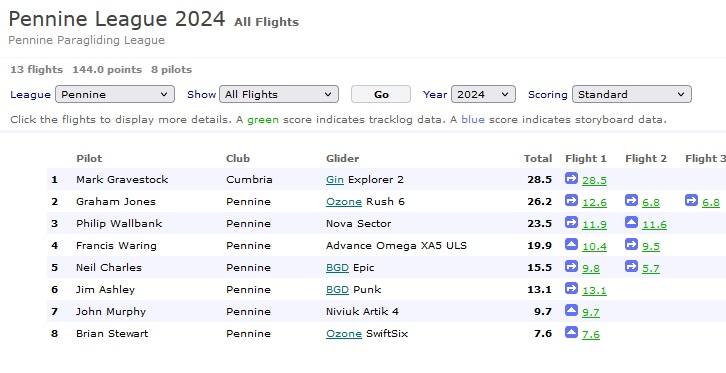
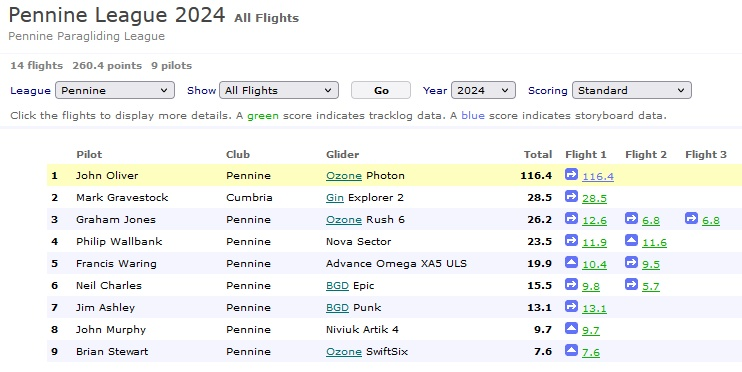
april comp update

Changed region(s): [[0.0606, 0.3844, 1.0, 0.9758], [0.0, 0.1478, 0.9697, 0.3548], [0.0, 0.0, 0.4242, 0.1183]]

diff --git a/docs/posts/2024-04/index.html b/docs/posts/2024-04/index.html
@@ -253,24 +253,22 @@ I was advised that this was normal for a new CP. I did even consider placing all
 <video height = "500" src="nigel.mp4" type="video/mp4" controls></video>
 <hr>
 <h1 id="competitions">Competitions</h1>
-<p><em>Elliot Brown, Competitions Secretary</em></p>
-<p>The 30th March seems to be the start of the 100km flights being added to <a href="https://www.xcontest.org/world/en/flights/daily-score-pg/#filter%5Bdate%5D=2024-03-30@filter%5Bcountry%5D=GB">XContest</a> and XC League in numbers with entries from Milk Hill, Eyam Edge and Windbank. There was also a great earlier flight from Tinto in Scotland the week before, scoring 107km.</p>
-<p><img src="tinto.jpg" alt=""></p>
+<p><em>Elliott Brown, Competitions Secretary</em></p>
+<p>The 30th March seems to be the start of the 100km flights being added to <a href="https://www.xcontest.org/world/en/flights/daily-score-pg/#filter%5Bdate%5D=2024-03-30@filter%5Bcountry%5D=GB">XContest</a> and XC League in numbers, with entries from Milk Hill, Eyam Edge, Windbank and our own Parlick Hill. There was also a great earlier flight from Tinto in Scotland the week before, scoring 107km.</p>
+<p><a href="https://xcleague.com/xc/flights/2024699.html"><img src="tinto.jpg" alt=""></a></p>
+<p>A fantastic flight too by our PSC pilot John Oliver, who rocked up to Parlick on 30th March and clocked an amazing effort to just past Bishop Auckland at 116km!</p>
+<p><a href="https://xcleague.com/xc/flights/2024826.html?vx=15"><img src="john.jpg" alt=""></a></p>
 <h3 id="northern-challenge-series">Northern Challenge Series</h3>
 <p>The Northern Challenge Series has started to get flights added since it opened 1st of February, with Nappa being completed on the 30th of March.</p>
-<p><img src="nappa.jpg" alt=""></p>
+<p><a href="https://www.xcmap.net/xc.php?r=1343&amp;t=1188&amp;c=Northern+Challenge+Trophy"><img src="nappa.jpg" alt=""></a></p>
 <p>This year Pennine Soaring Club is host to three of the challenges, set on Pendle, Parlick and Longridge. Why not get them downloaded and ready for a flight? there is no registration needed to add your flights, just upload a track to the relevant task page and your name will appear on the scoreboard.</p>
-<p><img src="ncs_table.jpg" alt=""></p>
+<p><a href="https://www.xcmap.net/index.php"><img src="ncs_table.jpg" alt=""></a></p>
 <h3 id="xcontest">XContest</h3>
-<p>Scott’s flight on Clough Head has secured his position at the top of the XContest Pennine league, with a couple of entries from Windbank helping to add to those numbers. Looking through the other pilots&rsquo; entries down the board, it’s a similar picture for days/locations.</p>
-<p><img src="xcontest_table2.jpg" alt=""></p>
+<p>John’s flight off Parlick on Saturday has secured him a nice lead at the top of the league, with his epic outing to the North. The remaining pilots in the top 5 have similarly built up some good flights from the same couple of flyable days in March.</p>
+<p><a href="https://www.xcontest.org/united-kingdom/ranking-club:2688"><img src="xcontest_table2.jpg" alt=""></a></p>
 <h3 id="xc-league">XC League</h3>
 <p>Parlick seems to be getting the most love on XC League, with the odd flight from Blackstone Edge thrown into the mix.</p>
-<p><img src="xcleague_table.jpg" alt=""></p>
-<hr>
-<p><a href="https://xcleague.com/xc/leagues/view-15.html"><img src="xcleague.jpg" alt=""></a></p>
-<p><a href="https://www.xcontest.org/united-kingdom/ranking-club:2688"><img src="xcontest.jpg" alt=""></a></p>
-<p><a href="https://www.xcflight.com/northern-challenge-series-2024/"><img src="https://www.xcflight.com/s/cc_images/cache_83561507.jpg?t=1700681134%5D" alt=""></a></p>
+<p><a href="https://xcleague.com/xc/leagues/view-15.html"><img src="xcleague_table.jpg" alt=""></a></p>
 <hr>
 <h1 id="pennine-fest">Pennine Fest</h1>
 <h3 id="24th---27th-may-the-whole-bank-holiday-weekend">24th - 27th May (the whole bank holiday weekend)</h3>
@@ -281,7 +279,7 @@ I was advised that this was normal for a new CP. I did even consider placing all
 <li>Camping all weekend on the show field. Electric hook ups. Toilets but not showers.</li>
 </ul>
 <p>Dinner at the Sun Inn on Saturday evening, which will be the usual chilli meal with a veg or vegan option. Please contact either Tim or Jim via social media or email <a href="mailto:accounts@penninesoaringclub.org.uk">accounts@penninesoaringclub.org.uk</a>. We need to know numbers so do get your order in early as it always sells out. The room we use can accommodate 32 total.</p>
-<p>At the time of writing I don’t have prices for camping but the meal on Saturday night will be £10, including a pound to the air ambulance. Cash only please!</p>
+<p>Camping is £8 per pitch (tent, caravan or motor home) + £6 for an electric hookup. The meal on Saturday night will be £10, including a pound to the air ambulance. Cash only please!</p>
 <p>I’ll post more information on the Pennine Chat Telegram group when available.</p>
 <p>Jim</p>
 <hr>
@@ -3120,6 +3118,7 @@ I was advised that this was normal for a new CP. I did even consider placing all
 <p>Congratulations to Scott O&rsquo;Neil for chalking up 57km - <a href="https://xcleague.com/xc/flights/2024667.html?vx=0">the longest flight of the day</a> - from Clough Head on Sunday 24th March - the same day that&rsquo;s given us all of our spectacular photos this month.</p>
 <p>Scott&rsquo;s much too modest to have nominated himself for the shout out but he did make a cracking video of the day.</p>
 <video width = "100%" src="scott.mp4" type="video/mp4" controls></video>
+<p>And congratulations again to John Oliver - already mentioned in Competitions - for the first 100km XC from a Pennine hill this season. Also the first 50km XC. And the first 25km XC from a Pennine site by a Pennine pilot. The rest of us have got some serious catching up to do already.</p>
 <hr>
 <h1 id="why-not-visit">Why Not Visit&hellip;</h1>
 <h3 id="clough-head">Clough Head</h3>

diff --git a/content/posts/2024-04/index.md b/content/posts/2024-04/index.md
@@ -168,41 +168,37 @@ I look forward to meeting up with you soon, and hopefully some very patient, sym
 
 # Competitions
 
-*Elliot Brown, Competitions Secretary*
+*Elliott Brown, Competitions Secretary*
 
-The 30th March seems to be the start of the 100km flights being added to [XContest](https://www.xcontest.org/world/en/flights/daily-score-pg/#filter[date]=2024-03-30@filter[country]=GB ) and XC League in numbers with entries from Milk Hill, Eyam Edge and Windbank. There was also a great earlier flight from Tinto in Scotland the week before, scoring 107km.
+The 30th March seems to be the start of the 100km flights being added to [XContest](https://www.xcontest.org/world/en/flights/daily-score-pg/#filter[date]=2024-03-30@filter[country]=GB ) and XC League in numbers, with entries from Milk Hill, Eyam Edge, Windbank and our own Parlick Hill. There was also a great earlier flight from Tinto in Scotland the week before, scoring 107km.
 
-![](tinto.jpg)
+[![](tinto.jpg)](https://xcleague.com/xc/flights/2024699.html)
+
+A fantastic flight too by our PSC pilot John Oliver, who rocked up to Parlick on 30th March and clocked an amazing effort to just past Bishop Auckland at 116km! 
+
+[![](john.jpg)](https://xcleague.com/xc/flights/2024826.html?vx=15 )
 
 ### Northern Challenge Series
 
 The Northern Challenge Series has started to get flights added since it opened 1st of February, with Nappa being completed on the 30th of March.
 
-![](nappa.jpg)
+[![](nappa.jpg)](https://www.xcmap.net/xc.php?r=1343&t=1188&c=Northern+Challenge+Trophy)
 
 This year Pennine Soaring Club is host to three of the challenges, set on Pendle, Parlick and Longridge. Why not get them downloaded and ready for a flight? there is no registration needed to add your flights, just upload a track to the relevant task page and your name will appear on the scoreboard.
 
-![](ncs_table.jpg)
+[![](ncs_table.jpg)](https://www.xcmap.net/index.php)
 
 ### XContest
 
-Scott’s flight on Clough Head has secured his position at the top of the XContest Pennine league, with a couple of entries from Windbank helping to add to those numbers. Looking through the other pilots' entries down the board, it’s a similar picture for days/locations.
+John’s flight off Parlick on Saturday has secured him a nice lead at the top of the league, with his epic outing to the North. The remaining pilots in the top 5 have similarly built up some good flights from the same couple of flyable days in March.
 
-![](xcontest_table2.jpg)
+[![](xcontest_table2.jpg)](https://www.xcontest.org/united-kingdom/ranking-club:2688 )
 
 ### XC League
 
 Parlick seems to be getting the most love on XC League, with the odd flight from Blackstone Edge thrown into the mix.
 
-![](xcleague_table.jpg)
-
----
-
-[![](xcleague.jpg)](https://xcleague.com/xc/leagues/view-15.html)
-
-[![](xcontest.jpg)](https://www.xcontest.org/united-kingdom/ranking-club:2688)
-
-[![](https://www.xcflight.com/s/cc_images/cache_83561507.jpg?t=1700681134])](https://www.xcflight.com/northern-challenge-series-2024/)
+[![](xcleague_table.jpg)](https://xcleague.com/xc/leagues/view-15.html )
 
 ---
 
@@ -218,7 +214,7 @@ This year Pennine Fest is the same weekend as the Chipping Steam Fair so it will
 
 Dinner at the Sun Inn on Saturday evening, which will be the usual chilli meal with a veg or vegan option. Please contact either Tim or Jim via social media or email accounts@penninesoaringclub.org.uk. We need to know numbers so do get your order in early as it always sells out. The room we use can accommodate 32 total.
 
-At the time of writing I don’t have prices for camping but the meal on Saturday night will be £10, including a pound to the air ambulance. Cash only please!
+Camping is £8 per pitch (tent, caravan or motor home) + £6 for an electric hookup. The meal on Saturday night will be £10, including a pound to the air ambulance. Cash only please!
 
 I’ll post more information on the Pennine Chat Telegram group when available.
 
@@ -262,6 +258,7 @@ Scott's much too modest to have nominated himself for the shout out but he did m
 
 {{< video src="scott.mp4" controls="yes">}}
 
+And congratulations again to John Oliver - already mentioned in Competitions - for the first 100km XC from a Pennine hill this season. Also the first 50km XC. And the first 25km XC from a Pennine site by a Pennine pilot. The rest of us have got some serious catching up to do already.
 
 ---
 
